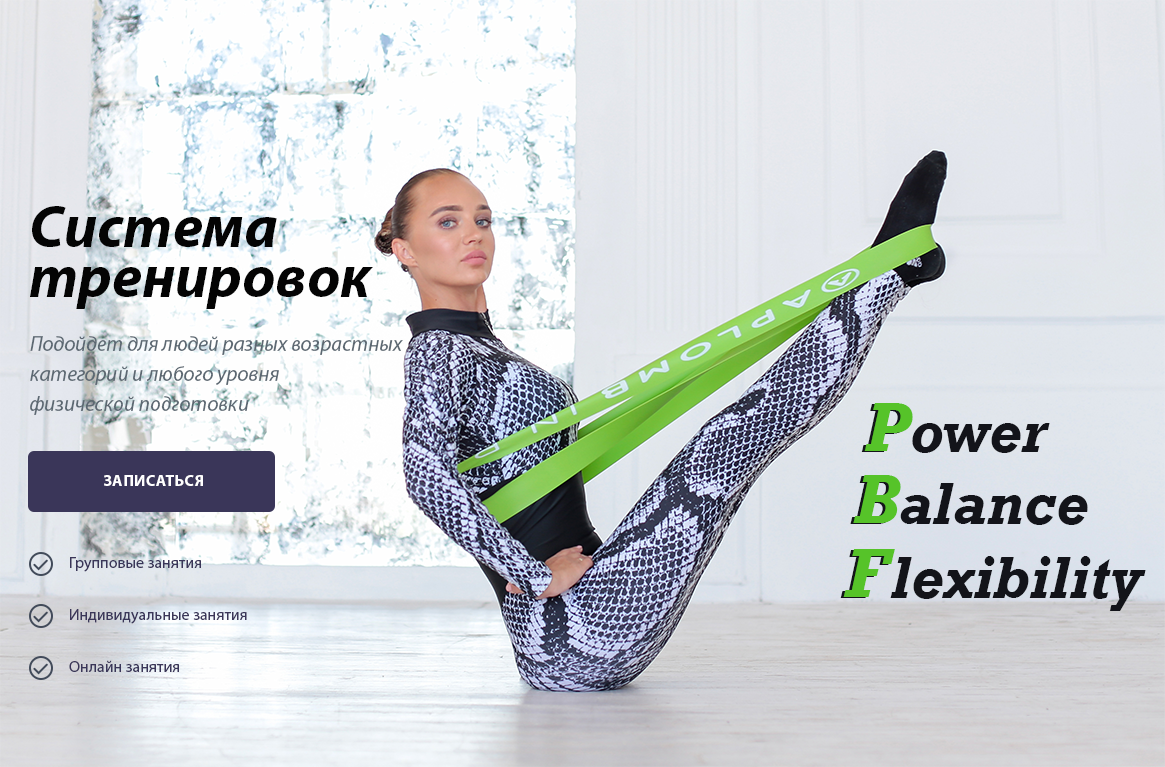
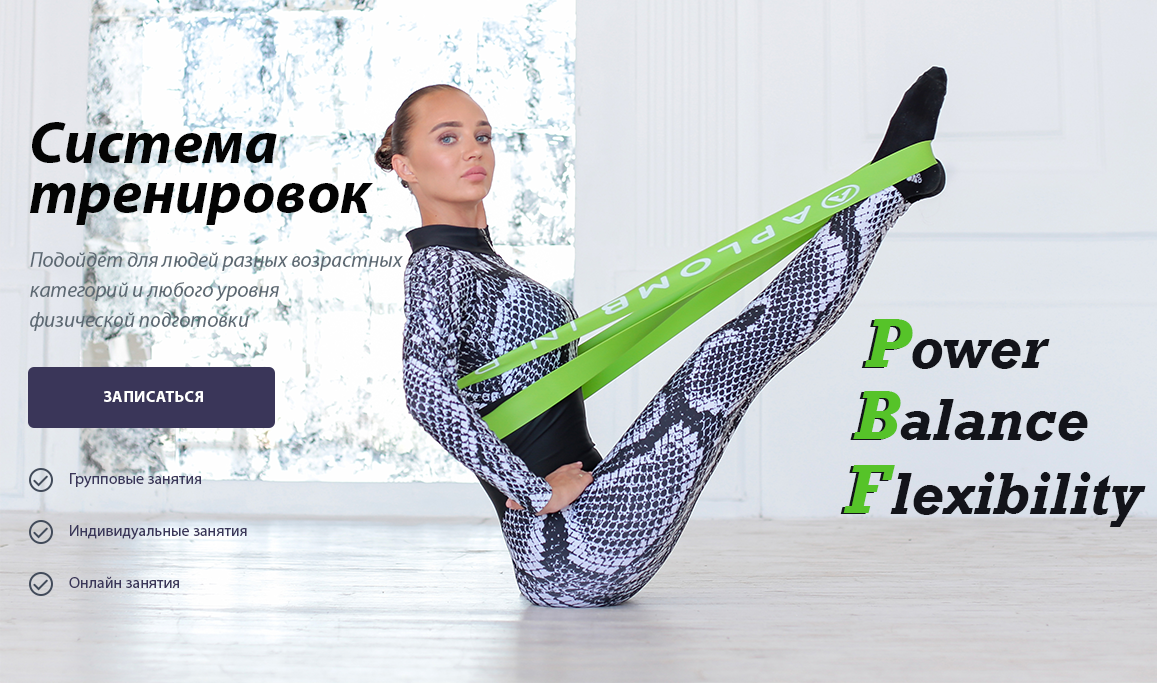
правки фотографий

diff --git a/index.html b/index.html
@@ -77,8 +77,8 @@
         <div class="hero">
             <div class="container container--hero">
                 <div class="hero__list">
-                    <img src="img/main.png" alt="1" class="hero__item">
-                    <img src="img/main2.png" alt="1" class="hero__item">
+                    <img src="img/main.png" alt="1" class="hero__item" style="">
+                    <img src="img/main2.png" alt="1" class="hero__item" style="">
                 </div>
             </div>
         </div>

diff --git a/css/block/hero.css b/css/block/hero.css
@@ -13,6 +13,7 @@
 }
 .hero__item{
     width: 100%;
+    height: 690px;
 }
 
 .hero__welcome{
